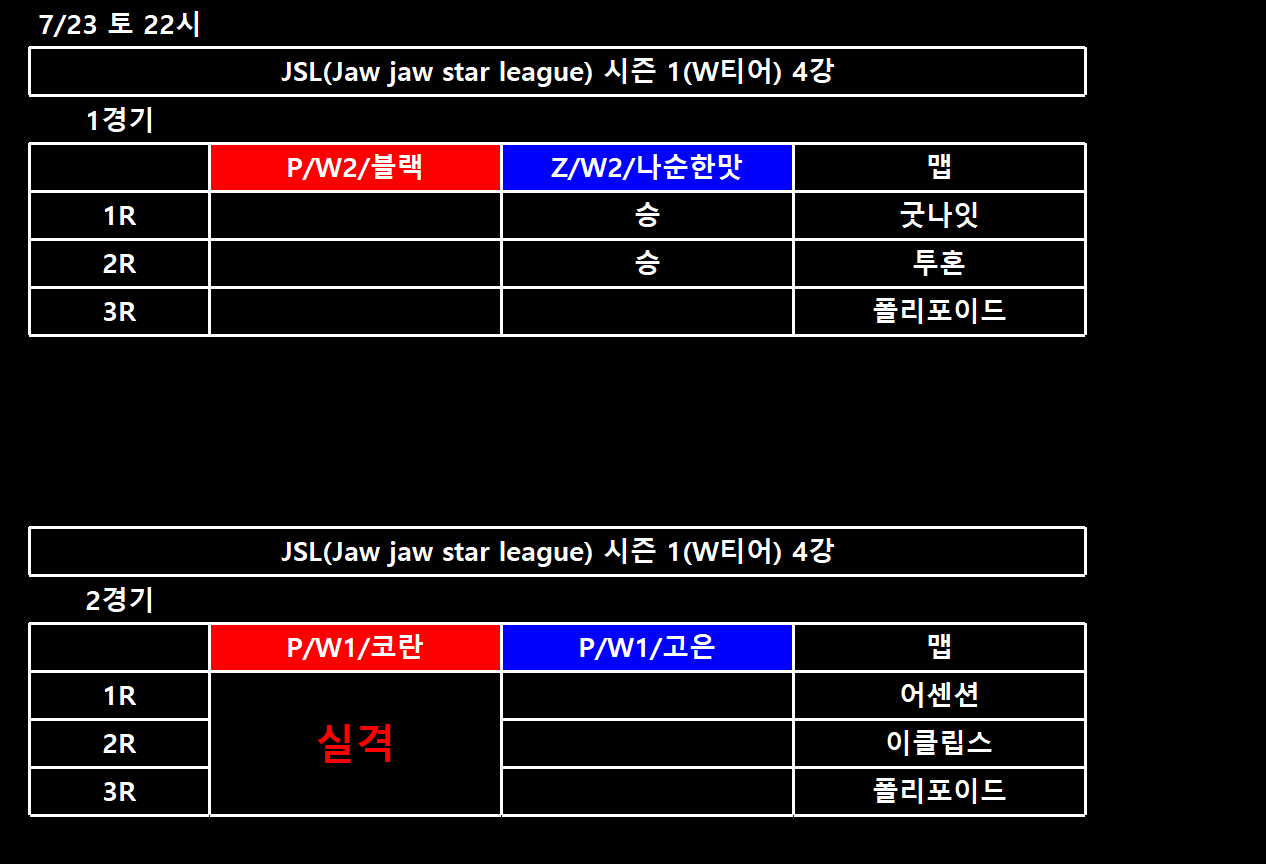
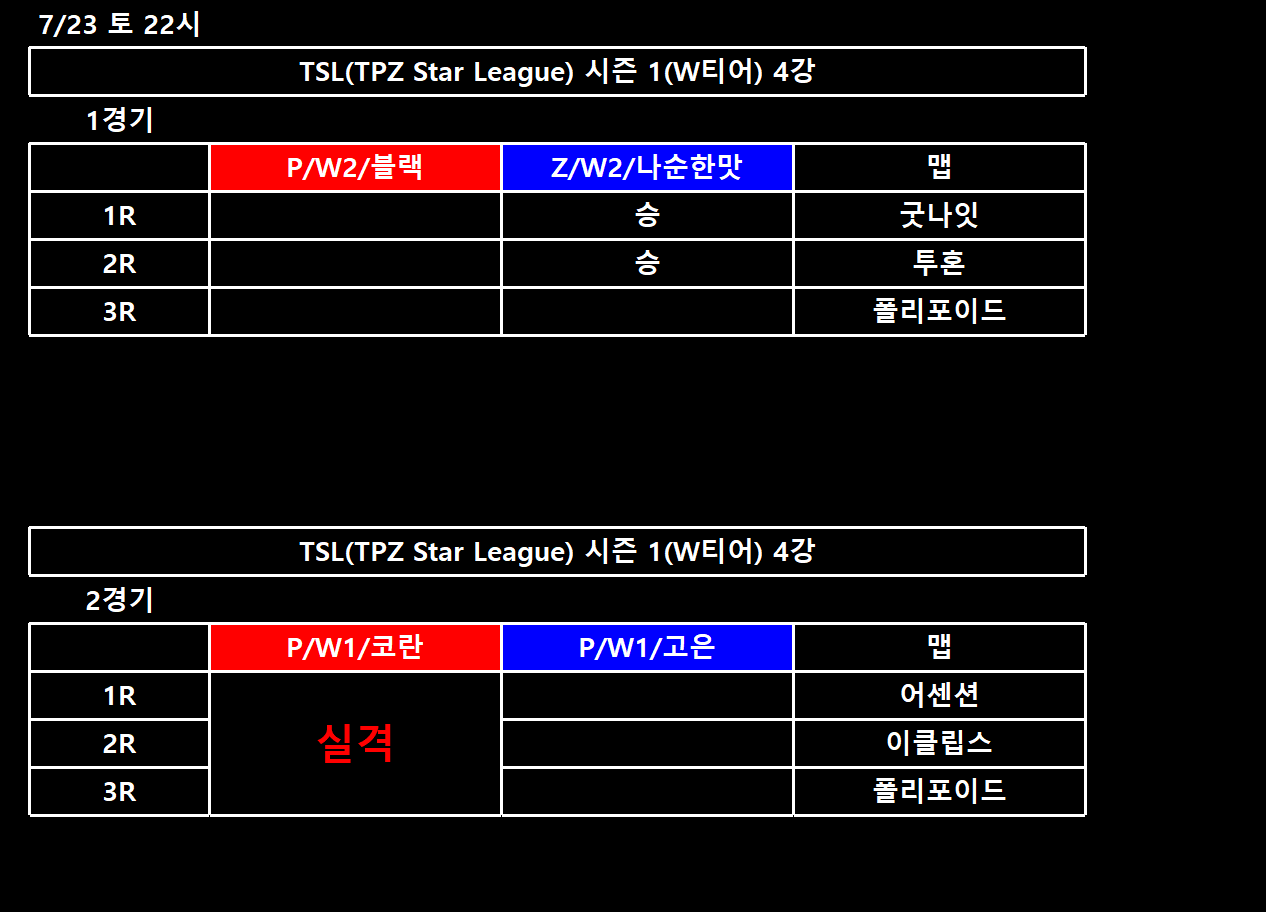
TPZ 리그 갱신

Changed region(s): [[0.0308, 0.5625, 0.8626, 0.9688], [0.0308, 0.0, 0.8626, 0.4062]]

diff --git a/TPZ_League/TPZ_Home.html b/TPZ_League/TPZ_Home.html
@@ -7,6 +7,8 @@
 
   <link href="https://fonts.googleapis.com/earlyaccess/notosanskr.css" rel="stylesheet">
   <link rel="stylesheet" href="https://maxcdn.bootstrapcdn.com/bootstrap/4.0.0-beta/css/bootstrap.min.css" integrity="sha384-/Y6pD6FV/Vv2HJnA6t+vslU6fwYXjCFtcEpHbNJ0lyAFsXTsjBbfaDjzALeQsN6M" crossorigin="anonymous">
+  <script  src="http://code.jquery.com/jquery-latest.min.js"></script>
+  <script src="./TPZ_HOME.js"></script>
   <link rel="stylesheet" href="./TPZ_Home.css">
 </head>
 
@@ -286,13 +288,14 @@
 
     <div class="league_list">
       <div class="League_schedule_title">
-        <h1>JSL 시즌 1 (W티어)</h1>
+        <h1>TSL 시즌 1st</h1>
       </div>
 
       <div class="League_schedule">
         <ul>
-          <li>7월 23일 토요일 22시 4강, 결승 (시즌 종료)</li>
-          <li><h2>우승자 : 고은</h2></li>
+          <li>7월 23일 토요일 22시 4강, 결승 (W 티어 시즌 종료)</li>
+          <li><h4>우승자 : 고은</h4></li>
+          <li><h4>준우승자 : 나순한맛</h4></li>
           <!-- <li>1 경기 P.블랙 VS Z.나순한맛 (승) (굿나잇)</li>
           <li>2 경기 P.블랙 VS Z.나순한맛 (승) (투혼)</li>
           <li>1 경기P.코란 (실격) VS P.고은 (부전승) (어센션)</li>
@@ -331,10 +334,6 @@
       </div>
     </div>
   </div>
-    <div id="tonul_img_list">
-      <img class="tonul_img" src="./legue_record_image/tor2.png"><br>
-      <img class="tonul_img" src="./legue_record_image/tor4.png"><br>
-   </div>
 <div id="footer">
   <a href="https://open.kakao.com/o/gkpQnJ0d" target="_blank"><img src="./logo_image/kakaotalk.png"></a>
   <a href="https://discord.gg/bFaf3d8vbX" target="_blank"><img src="./logo_image/discord.png"></a>

diff --git a/TPZ_League/tonumant_Winners.css b/TPZ_League/tonumant_Winners.css
@@ -1,0 +1,48 @@
+body {
+    margin: 0px;
+    width: 200px;
+    height: 200px;
+}
+
+div {
+    margin: 0px;
+}
+
+#winnerlogo1{
+    background-image: url("./legue_record_image//1st.jpg");
+    background-size: cover;
+    background-position: center center;
+    width: 200px;
+    height: 200px;
+    overflow-y: hidden;
+}
+
+#winnerlogo1 h1 {
+    margin: 0px;
+    text-align: center;
+    line-height: 320px;
+    color: gold;
+    text-shadow: -1px 0 #000, 0 1px #000, 1px 0 #000, 0 -1px #000;
+    font-size: 64px;
+    opacity: 0.7;
+
+}
+
+#winnerlogo2 {
+    background-image: url("./legue_record_image/2sd.png");
+    background-size: cover;
+    background-position: center center;
+    width: 200px;
+    height: 200px;
+    overflow-y: hidden;
+}
+
+#winnerlogo2 h1 {
+    margin: 0px;
+    text-align: center;
+    line-height: 320px;
+    color: gold;
+    text-shadow: -1px 0 #000, 0 1px #000, 1px 0 #000, 0 -1px #000;
+    font-size: 40px;
+    opacity: 0.7;
+}

diff --git a/TPZ_League/TPZ_League_View.html b/TPZ_League/TPZ_League_View.html
@@ -86,8 +86,10 @@
     <div class="League_schedule_title">
       <h1>TPZ 토너먼트 재생 목록</h1>
     </div>
-       <div class="User_video">
-          <!-- <iframe width="800px" height="400px" src="https://www.youtube.com/embed/t2Y4Q6OExH4?rel=0&amp;autoplay=1&mute=1&amp;loop=1;playlist=t2Y4Q6OExH4" frameborder="0"></iframe> -->
+    <div class="League_view">
+      <a href="https://www.youtube.com/watch?v=7xSmDCmIQ38" target="_blank"><h2>220723 TPZ 시즌 1 W티어(4강,결승)</h2></a>
+        <div class="User_video">
+          <iframe width="800px" height="400px" src="https://www.youtube.com/embed/7xSmDCmIQ38?rel=0&amp;autoplay=1&mute=1&amp;loop=1;playlist=7xSmDCmIQ38" frameborder="0" allowfullscreen></iframe>
        </div>
     </div>
   </div>

diff --git a/TPZ_League/tonumant_Winners.html b/TPZ_League/tonumant_Winners.html
@@ -1,0 +1,14 @@
+<!DOCTYPE html>
+<html lang="en">
+<head>
+    <meta charset="UTF-8">
+    <meta http-equiv="X-UA-Compatible" content="IE=edge">
+    <meta name="viewport" content="width=device-width, initial-scale=1.0">
+    <title>TSL 시즌 1 (우승/준우승 명단)</title>
+    <link rel="stylesheet" href="./tonumant_Winners.css">
+</head>
+<body>
+    <div id="winnerlogo1"><h1>P.고은</h1></div>
+    <div id="winnerlogo2"><h1>Z.나순한맛</h1></div>
+</body>
+</html>

diff --git a/TPZ_League/tonumant.html b/TPZ_League/tonumant.html
@@ -1,0 +1,15 @@
+<!DOCTYPE html>
+<html lang="ko">
+<head>
+    <meta charset="UTF-8">
+    <title>TSL 토너먼트 대진표</title>
+    <link rel="stylesheet" href="./tonumant.css">
+</head>
+<body>
+    <div id="tonumant_vstable">
+        <img src="./legue_record_image/토너먼트대진표.png"><br>
+        <img src="./legue_record_image/tor4.png"><br>
+        <img src="./legue_record_image//tor4.png"><br>
+    </div>
+</body>
+</html>

diff --git a/TPZ_League/TPZ_HOME.js b/TPZ_League/TPZ_HOME.js
@@ -1,0 +1,7 @@
+$(function showPopup(){
+    window.open("./tonumant.html","토너먼트대진표","width=400, height=250, top=10, left=10");
+});
+
+$(function showPopup(){
+    window.open("./tonumant_Winners.html","우승준우승명단","width=220, height=420, top=450, left=850");
+});

diff --git a/TPZ_League/TPZ_Home.css b/TPZ_League/TPZ_Home.css
@@ -306,7 +306,7 @@ ul {
 .League_view ul {
   padding: 0%;
 }
-
+/* 
 .tonul_img {
   width: 100%;
   height: 100%;
@@ -320,4 +320,4 @@ ul {
   width: 25%;
   height: 20%;
   overflow-y: scroll;
-}
+} */

diff --git a/TPZ_League/tonumant.css b/TPZ_League/tonumant.css
@@ -1,0 +1,13 @@
+div {
+    margin: 0px;
+    padding: 0px;
+}
+
+body{
+    margin: 0px;
+}
+#tonumant_vstable img {
+    width: 100%;
+    height: 100%;
+    overflow-y: scroll;
+}
